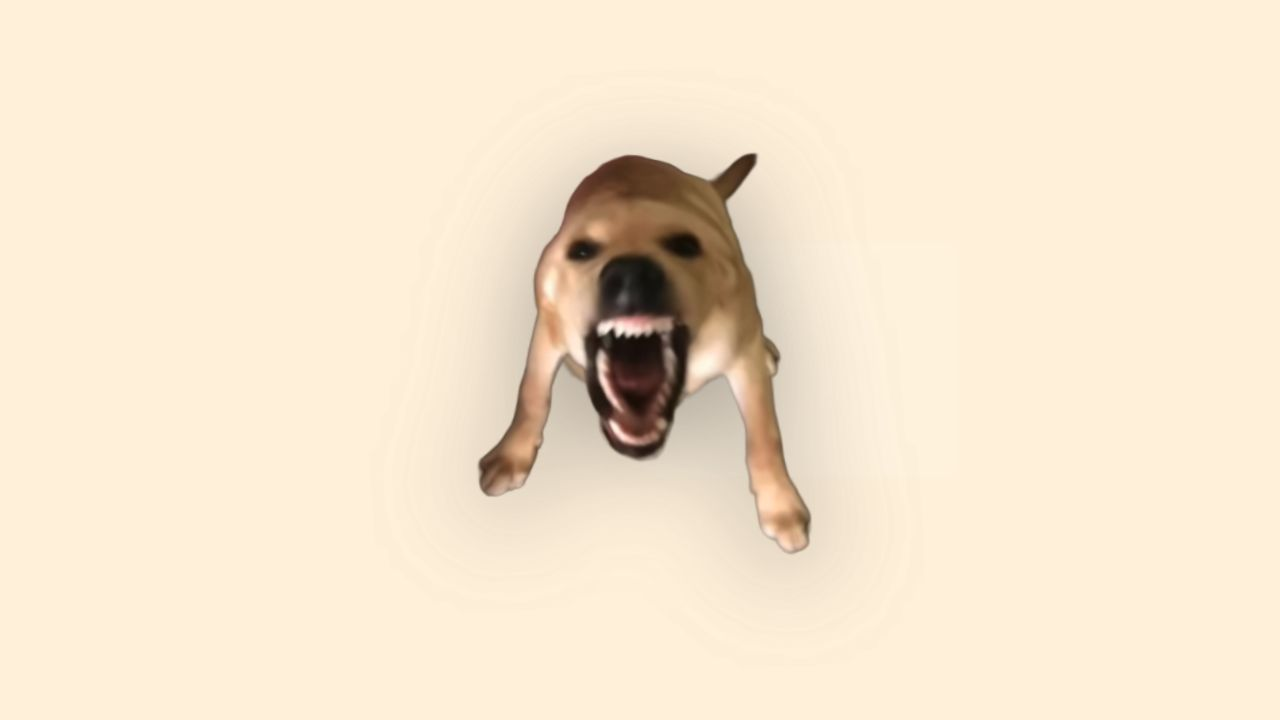
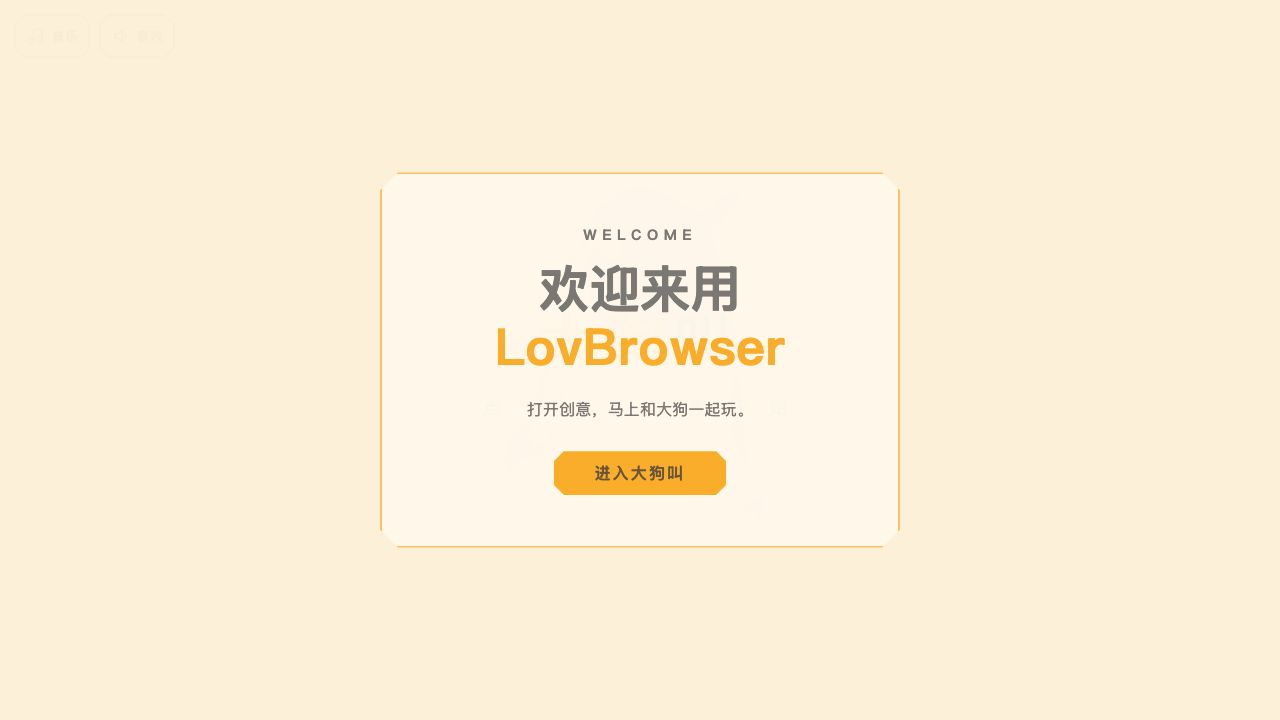
feat: 添加 LovBrowser 欢迎广告

Changed region(s): [[0.3438, 0.2139, 0.6875, 0.7639]]

diff --git a/index.html b/index.html
@@ -297,6 +297,74 @@
     }
   }
 
+  /* 首次进入欢迎广告 */
+  #welcome-ad {
+    position: absolute;
+    inset: 0;
+    z-index: 50;
+    display: grid;
+    place-items: center;
+    padding: 24px;
+    background: rgba(255, 242, 220, .96);
+    transition: opacity .45s ease, visibility .45s ease;
+  }
+  #welcome-ad.hide {
+    opacity: 0;
+    visibility: hidden;
+    pointer-events: none;
+  }
+  .welcome-card {
+    width: min(88vw, 520px);
+    padding: clamp(34px, 7vmin, 64px) clamp(24px, 6vmin, 54px);
+    text-align: center;
+    background: rgba(255, 255, 255, .46);
+    border: 2px solid rgba(255, 180, 0, .7);
+    box-shadow: 0 24px 70px rgba(135, 131, 126, .18);
+    clip-path: polygon(18px 0, calc(100% - 18px) 0, 100% 18px,
+                       100% calc(100% - 18px), calc(100% - 18px) 100%,
+                       18px 100%, 0 calc(100% - 18px), 0 18px);
+  }
+  .welcome-eyebrow {
+    margin-bottom: 16px;
+    color: var(--gray);
+    font-size: clamp(12px, 2vmin, 15px);
+    font-weight: 700;
+    letter-spacing: .35em;
+  }
+  .welcome-title {
+    color: var(--gray);
+    font-size: clamp(32px, 7vmin, 62px);
+    font-weight: 900;
+    line-height: 1.15;
+  }
+  .welcome-title strong { color: var(--amber); }
+  .welcome-copy {
+    margin: 18px auto 28px;
+    color: var(--gray);
+    font-size: clamp(14px, 2.2vmin, 17px);
+    line-height: 1.8;
+  }
+  #welcome-enter {
+    min-width: 172px;
+    padding: 14px 28px;
+    border: 0;
+    color: #765f41;
+    background: var(--amber);
+    clip-path: polygon(10px 0, calc(100% - 10px) 0, 100% 10px,
+                       100% calc(100% - 10px), calc(100% - 10px) 100%,
+                       10px 100%, 0 calc(100% - 10px), 0 10px);
+    font: 800 16px/1 "PingFang SC", "Microsoft YaHei", system-ui, sans-serif;
+    letter-spacing: .12em;
+    cursor: pointer;
+    transition: transform .18s ease, filter .18s ease;
+  }
+  #welcome-enter:hover { filter: brightness(1.05); }
+  #welcome-enter:active { transform: scale(.96); }
+  #welcome-enter:focus-visible {
+    outline: 3px solid rgba(62, 123, 250, .38);
+    outline-offset: 4px;
+  }
+
   /* 开始遮罩（首次点击解锁音频） */
   #overlay {
     position: absolute;
@@ -381,8 +449,28 @@
       <div class="title">大狗<em>叫</em></div>
       <div class="sub">点 击 任 意 位 置 开 始</div>
     </div>
+
+    <div id="welcome-ad" role="dialog" aria-modal="true" aria-labelledby="welcome-title">
+      <div class="welcome-card">
+        <div class="welcome-eyebrow">WELCOME</div>
+        <h1 id="welcome-title" class="welcome-title">欢迎来用 <strong>LovBrowser</strong></h1>
+        <p class="welcome-copy">打开创意，马上和大狗一起玩。</p>
+        <button id="welcome-enter" type="button">进入大狗叫</button>
+      </div>
+    </div>
   </div>
 
+  <script>
+    const welcomeAd = document.getElementById('welcome-ad');
+    const welcomeEnter = document.getElementById('welcome-enter');
+    welcomeAd.addEventListener('pointerdown', (event) => event.stopPropagation());
+    welcomeEnter.addEventListener('click', (event) => {
+      event.preventDefault();
+      event.stopPropagation();
+      welcomeAd.classList.add('hide');
+      window.setTimeout(() => { welcomeAd.hidden = true; }, 450);
+    });
+  </script>
   <script src="audio-data.js"></script>
   <script src="main.js"></script>
 </body>

diff --git a/README.md b/README.md
@@ -1,6 +1,6 @@
 # 大狗叫
 
-一个可以点击、拖动互动的大狗叫静态网页，包含狗叫音效、弹性缩放和全屏粒子特效。
+一个可以点击、拖动互动的大狗叫静态网页，首次进入会展示 LovBrowser 欢迎页，并包含狗叫音效、弹性缩放和全屏粒子特效。
 
 线上演示：[http://47.128.78.22/dagoujiao/](http://47.128.78.22/dagoujiao/)
 